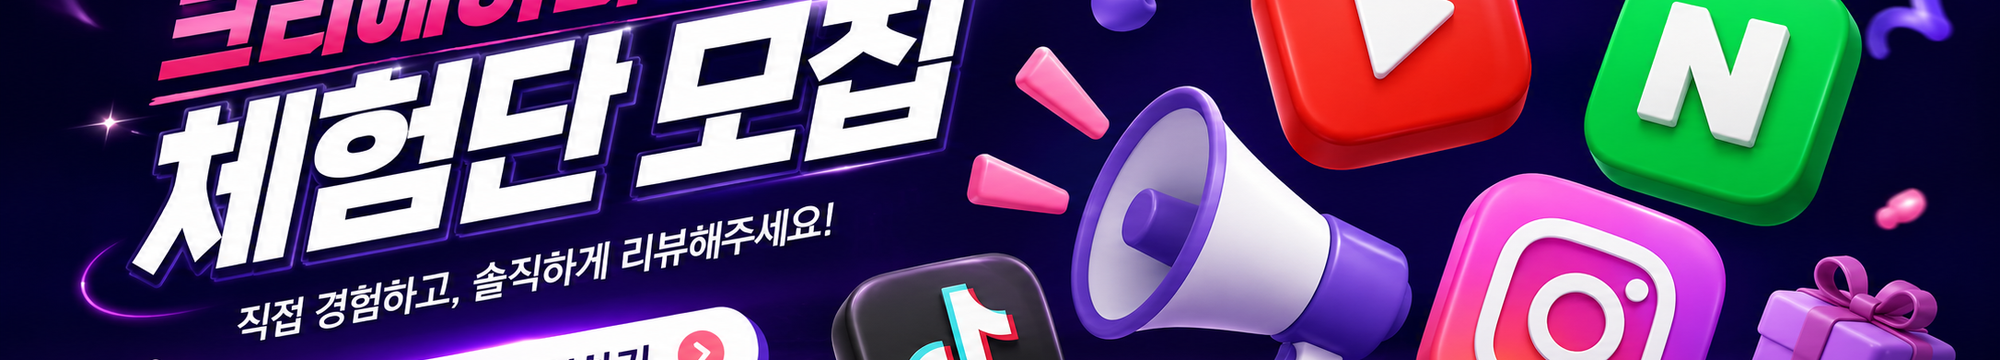
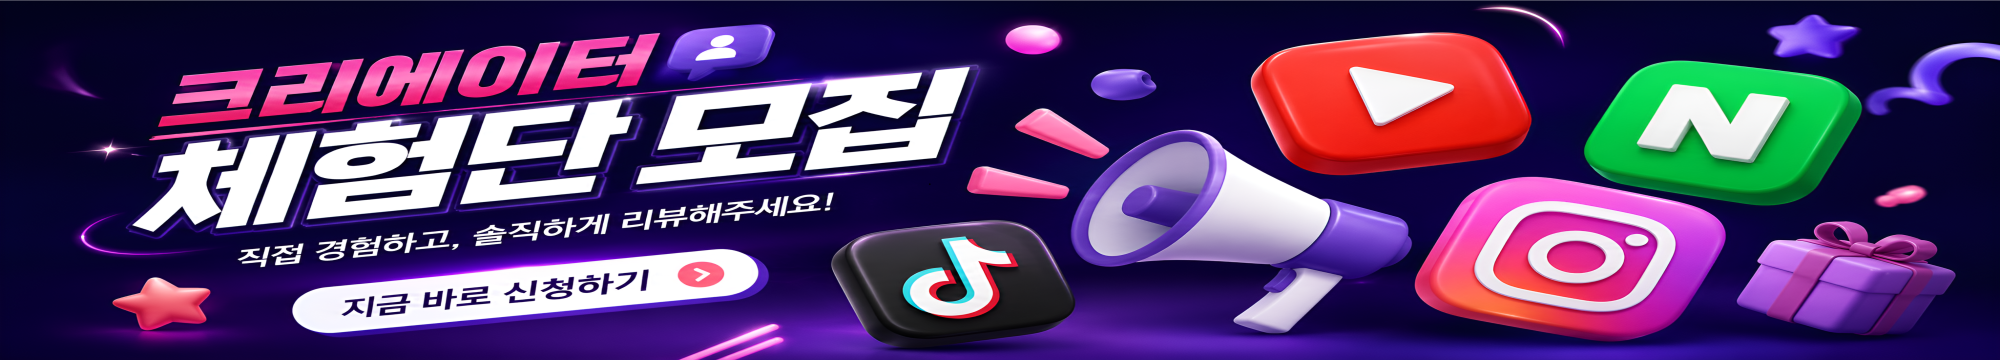
feat: 메인 이벤트 배너 3 (event 3.png) 추가

diff --git a/index.html b/index.html
@@ -113,6 +113,11 @@
                 <img src="banner2.png" alt="보라카이 자유여행 보라카이션 메인 배너 2">
             </a>
         </div>
+        <div class="banner-slide">
+            <a href="https://cafe.naver.com/jesupblue/73341" target="_blank">
+                <img src="banner3.png" alt="보라카이션 이벤트 배너 3">
+            </a>
+        </div>
     </div>
 
     <!-- ◀▶ 화살표 네비게이션 -->
